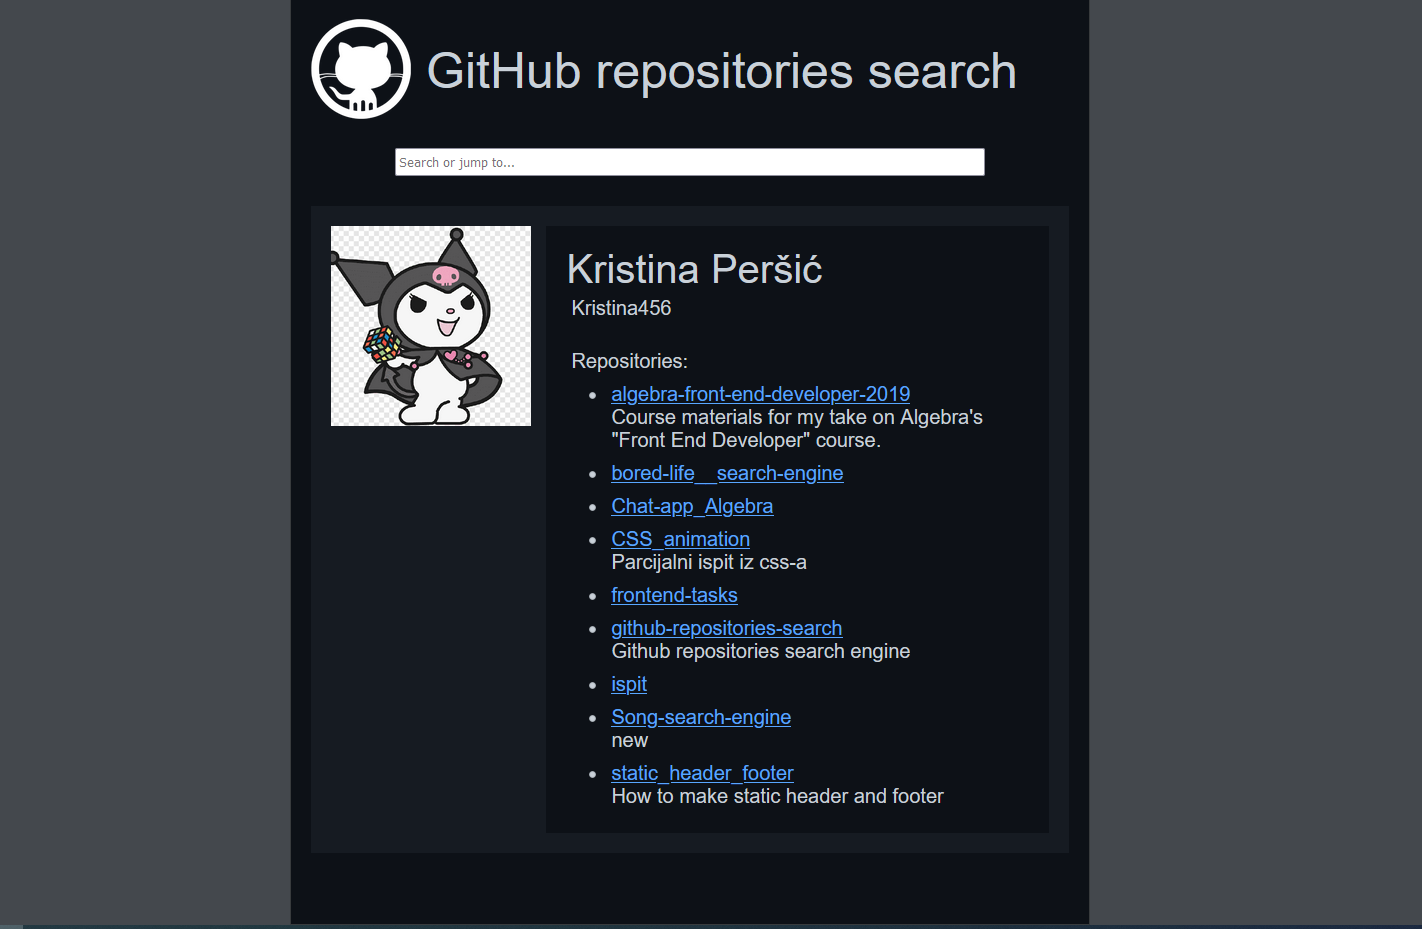
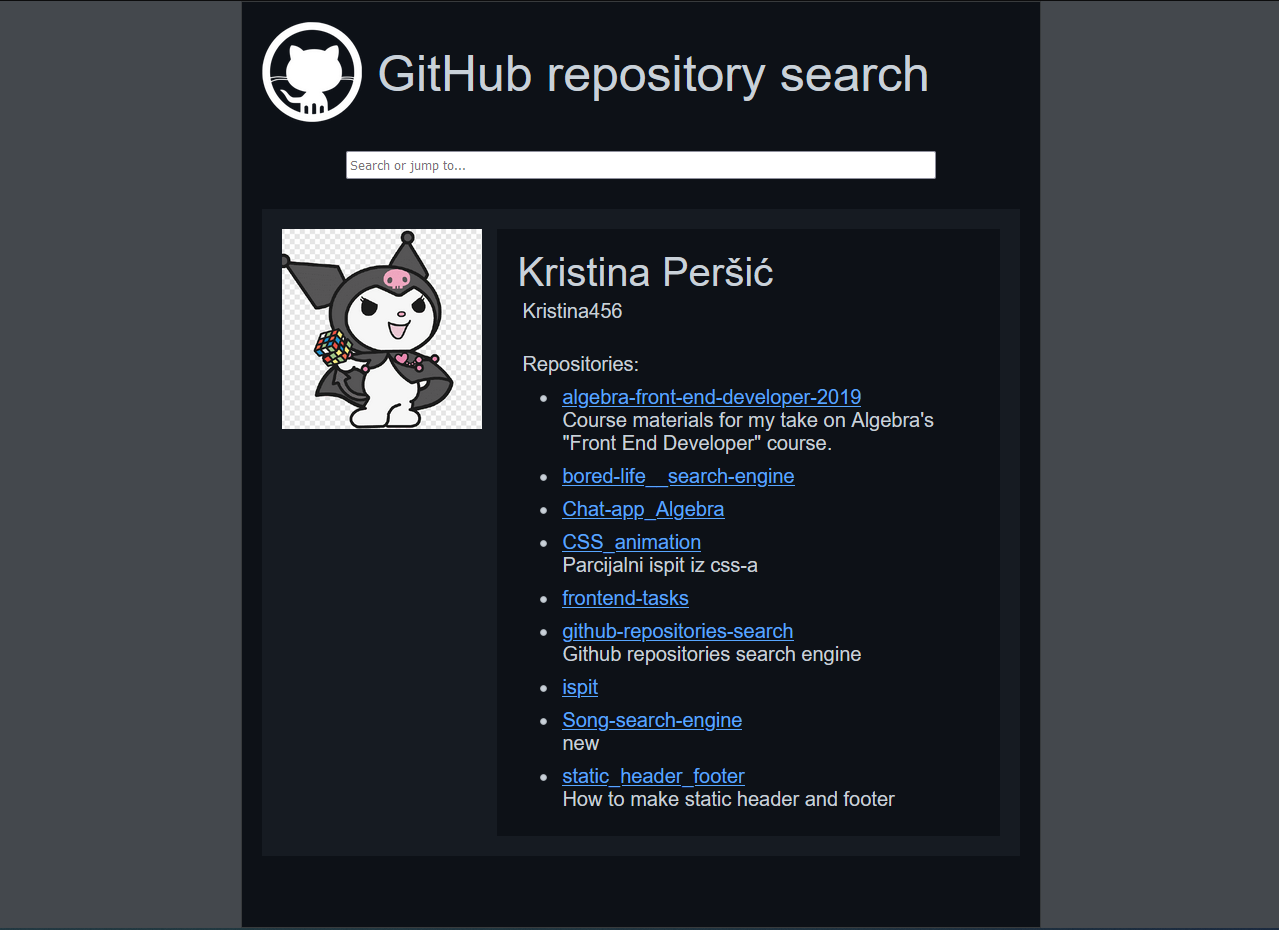
new name

diff --git a/src/components/GitHub/GitHub.jsx b/src/components/GitHub/GitHub.jsx
@@ -51,7 +51,7 @@ export default function GitHub() {
         </div>
         <div>
           <div className="gitHub_heading_greeting">
-            GitHub repositories search
+            GitHub repository search
           </div>
         </div>
       </div>
